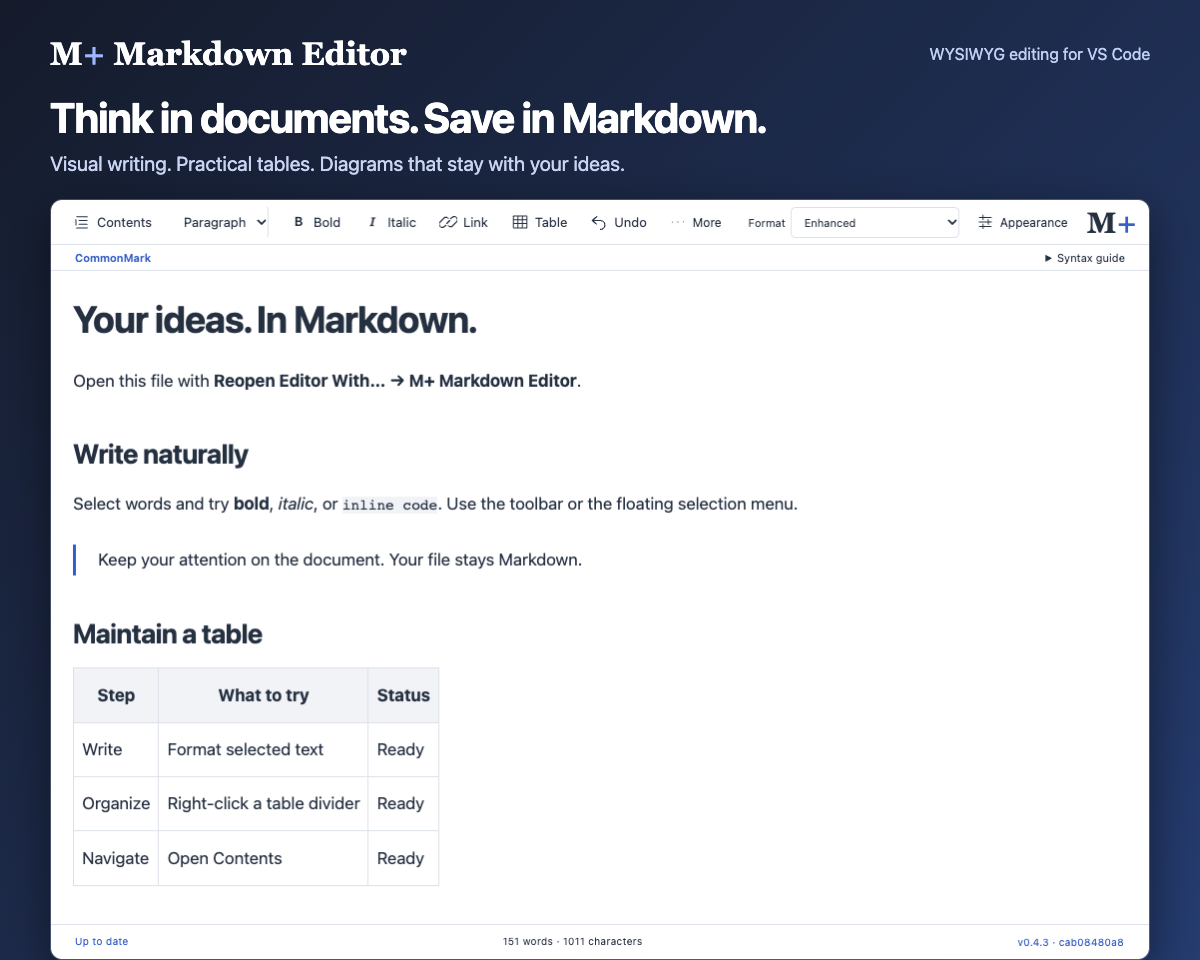
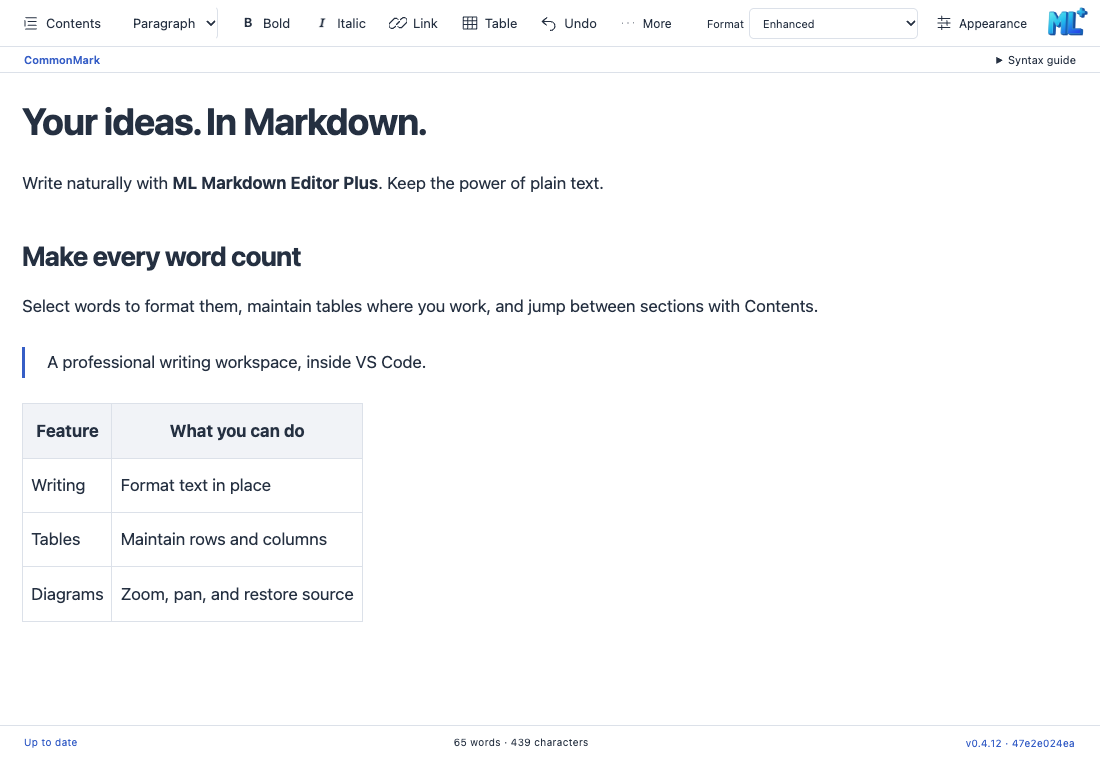
Refresh public media for ML Markdown Editor Plus

diff --git a/README.md b/README.md
@@ -1,3 +1,3 @@
-# M+ Markdown Editor media
+# ML Markdown Editor Plus media
 
-Public screenshots, demonstrations, and logo for the M+ Markdown Editor Marketplace listing. This repository contains no extension source code.
+Public ML+ branding, screenshots, and demonstrations for the ML Markdown Editor Plus Marketplace listing. This repository contains no extension source code.
